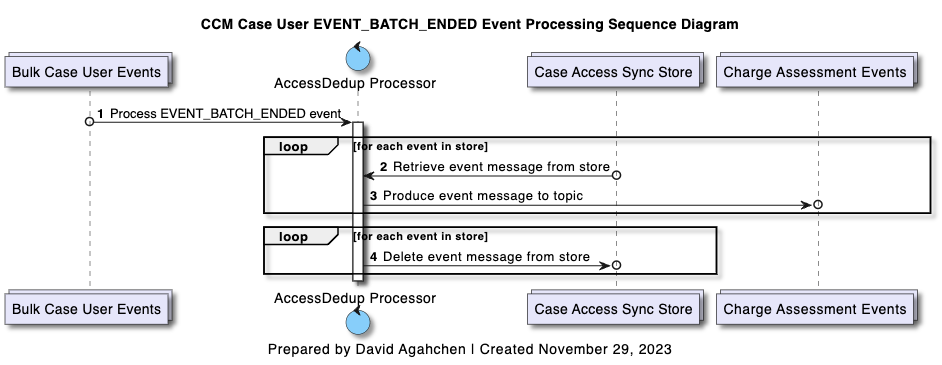
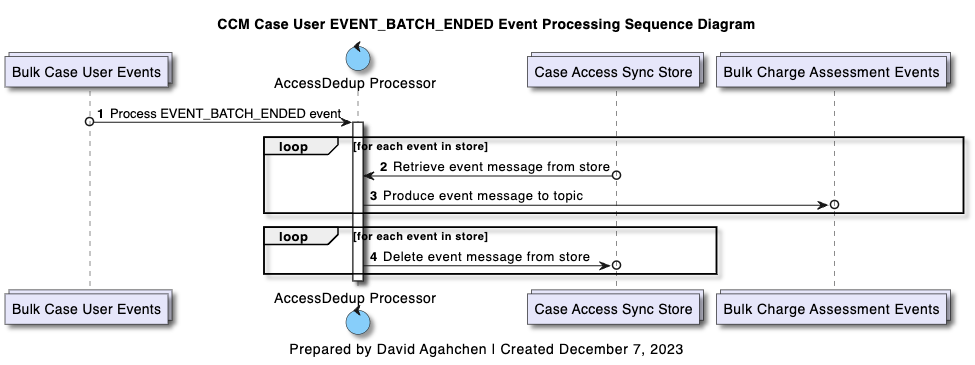
Change INFERRED_AUTH_LIST_CHANGED topic location

diff --git a/src/main/java/ccm/CcmNotificationService.java b/src/main/java/ccm/CcmNotificationService.java
@@ -62,6 +62,7 @@ public class CcmNotificationService extends RouteBuilder {
     attachExceptionHandlers();
 
     processChargeAssessmentEvents();
+    processBulkChargeAssessmentEvents();
     processCourtCaseEvents();
     processChargeAssessmentChanged();
     processManualChargeAssessmentChanged();
@@ -328,8 +329,53 @@ public class CcmNotificationService extends RouteBuilder {
         .setProperty("kpi_status", simple(EventKPI.STATUS.EVENT_PROCESSING_COMPLETED.name()))
         .to("direct:publishEventKPI")
         .endChoice()
-      .when(PredicateBuilder.or(header("event_status").isEqualTo(ChargeAssessmentEvent.STATUS.AUTH_LIST_CHANGED), 
-        header("event_status").isEqualTo(ChargeAssessmentEvent.STATUS.INFERRED_AUTH_LIST_CHANGED)))
+      .when(header("event_status").isEqualTo(ChargeAssessmentEvent.STATUS.AUTH_LIST_CHANGED))
+        .setProperty("kpi_component_route_name", simple("processCourtCaseAuthListChanged"))
+        .setProperty("kpi_status", simple(EventKPI.STATUS.EVENT_PROCESSING_STARTED.name()))
+        .to("direct:publishEventKPI")
+        .setBody(header("event"))
+        .to("direct:processCourtCaseAuthListChanged")
+        .setProperty("kpi_status", simple(EventKPI.STATUS.EVENT_PROCESSING_COMPLETED.name()))
+        .to("direct:publishEventKPI")
+        .endChoice()
+      .otherwise()
+        .to("direct:processUnknownStatus")
+        .setProperty("kpi_component_route_name", simple("processUnknownStatus"))
+        .setProperty("kpi_status", simple(EventKPI.STATUS.EVENT_PROCESSING_FAILED.name()))
+        .to("direct:publishEventKPI")
+        .endChoice()
+      .end();
+    ;
+  }
+
+  private void processBulkChargeAssessmentEvents() {
+    // use method name as route id
+    String routeId = new Object() {}.getClass().getEnclosingMethod().getName();
+
+    from("kafka:{{kafka.topic.bulk-chargeassessments.name}}?groupId=ccm-notification-service&maxPollRecords=5&maxPollIntervalMs=2400000")
+    .routeId(routeId)
+    .log(LoggingLevel.INFO,"Event from Kafka {{kafka.topic.bulk-chargeassessments.name}} topic (offset=${headers[kafka.OFFSET]}): ${body}\n" +
+      "    on the topic ${headers[kafka.TOPIC]}\n" +
+      "    on the partition ${headers[kafka.PARTITION]}\n" +
+      "    with the offset ${headers[kafka.OFFSET]}\n" +
+      "    with the key ${headers[kafka.KEY]}")
+    .setHeader("event_key")
+      .jsonpath("$.event_key")
+    .setHeader("event_status")
+      .jsonpath("$.event_status")
+    .setHeader("event_message_id")
+      .jsonpath("$.justin_event_message_id")
+    .setHeader("event_message_type")
+      .jsonpath("$.justin_message_event_type_cd")
+    .setHeader("event")
+      .simple("${body}")
+    .unmarshal().json(JsonLibrary.Jackson, ChargeAssessmentEvent.class)
+    .setProperty("kpi_event_object", body())
+    .setProperty("kpi_event_topic_name", simple("${headers[kafka.TOPIC]}"))
+    .setProperty("kpi_event_topic_offset", simple("${headers[kafka.OFFSET]}"))
+    .marshal().json(JsonLibrary.Jackson, ChargeAssessmentEvent.class)
+    .choice()
+      .when(header("event_status").isEqualTo(ChargeAssessmentEvent.STATUS.INFERRED_AUTH_LIST_CHANGED))
         .setProperty("kpi_component_route_name", simple("processCourtCaseAuthListChanged"))
         .setProperty("kpi_status", simple(EventKPI.STATUS.EVENT_PROCESSING_STARTED.name()))
         .to("direct:publishEventKPI")

diff --git a/ccm-accessdedup-processor/src/main/java/CaseUserEventHandler.java b/ccm-accessdedup-processor/src/main/java/CaseUserEventHandler.java
@@ -42,8 +42,7 @@ public class CaseUserEventHandler extends AbstractProcessor<String, String> {
     private KeyValueStore<String, String> accessdedupStore;
 
     private String appId;
-    private String chargeAssessmentsTopicName;
-    private String chargeAssessmentErrorsTopicName;
+    private String bulkChargeAssessmentsTopicName;
     private String bulkCaseUsersTopicName;
     private String caseUserErrorsTopicName;
     private String kpisTopicName;
@@ -58,7 +57,7 @@ public class CaseUserEventHandler extends AbstractProcessor<String, String> {
 
         // Dependency injection doesn't work in Kafka Streams.  We have to use the ConfigProvider.
         appId = ConfigProvider.getConfig().getValue("quarkus.kafka-streams.application-id", String.class);
-        chargeAssessmentsTopicName = ConfigProvider.getConfig().getValue("ccm.topic.chargeassessments.name", String.class);
+        bulkChargeAssessmentsTopicName = ConfigProvider.getConfig().getValue("ccm.topic.bulk-chargeassessments.name", String.class);
         bulkCaseUsersTopicName = ConfigProvider.getConfig().getValue("ccm.topic.bulk-caseusers.name", String.class);
         caseUserErrorsTopicName = ConfigProvider.getConfig().getValue("ccm.topic.caseuser-errors.name", String.class);
         kpisTopicName = ConfigProvider.getConfig().getValue("ccm.topic.kpis.name", String.class);
@@ -119,7 +118,7 @@ public class CaseUserEventHandler extends AbstractProcessor<String, String> {
                     LOG.info("Forwarding from store: charge assessment {}.", keyValue.key);
 
                     context.forward(keyValue.key, keyValue.value, 
-                        CaseUserEventHandler.util_getToplogySinkName(chargeAssessmentsTopicName));
+                        CaseUserEventHandler.util_getToplogySinkName(bulkChargeAssessmentsTopicName));
                 });
 
                 accessdedupStore.all().forEachRemaining(keyValue -> {

diff --git a/ccm-accessdedup-processor/src/main/java/AccessDedupTopology.java b/ccm-accessdedup-processor/src/main/java/AccessDedupTopology.java
@@ -29,8 +29,8 @@ public class AccessDedupTopology {
     String quarkusKafkaStreamsAppName;
 
     @Inject
-    @ConfigProperty(name = "ccm.topic.chargeassessments.name")
-    String chargeAssessmentsTopicName;
+    @ConfigProperty(name = "ccm.topic.bulk-chargeassessments.name")
+    String bulkChargeAssessmentsTopicName;
     
     @Inject
     @ConfigProperty(name = "ccm.topic.bulk-caseusers.name")
@@ -79,7 +79,7 @@ public class AccessDedupTopology {
         topology.addSink(CaseUserEventHandler.util_getToplogySinkName(caseUserErrorsTopicName), caseUserErrorsTopicName, 
             Serdes.String().serializer(), Serdes.String().serializer(), 
             CaseUserEventHandler.util_getTopologyProcessorName());
-        topology.addSink(CaseUserEventHandler.util_getToplogySinkName(chargeAssessmentsTopicName), chargeAssessmentsTopicName, 
+        topology.addSink(CaseUserEventHandler.util_getToplogySinkName(bulkChargeAssessmentsTopicName), bulkChargeAssessmentsTopicName, 
             Serdes.String().serializer(), Serdes.String().serializer(), 
             CaseUserEventHandler.util_getTopologyProcessorName());
         topology.addSink(CaseUserEventHandler.util_getToplogySinkName(kpisTopicName), kpisTopicName, 
@@ -90,7 +90,7 @@ public class AccessDedupTopology {
         //// Define the charge assessment event source
         topology.addSource(ChargeAssessmentEventHandler.util_getTopologySourceName(), 
             Serdes.String().deserializer(), Serdes.String().deserializer(), 
-            chargeAssessmentsTopicName);
+            bulkChargeAssessmentsTopicName);
         //// Add charge assessment event custom processor
         topology.addProcessor(ChargeAssessmentEventHandler.class.getSimpleName(), 
             ChargeAssessmentEventHandler::new, ChargeAssessmentEventHandler.util_getTopologySourceName());

diff --git a/ccm-accessdedup-processor/src/main/java/ChargeAssessmentEventHandler.java b/ccm-accessdedup-processor/src/main/java/ChargeAssessmentEventHandler.java
@@ -41,8 +41,7 @@ public class ChargeAssessmentEventHandler extends AbstractProcessor<String, Stri
     private ProcessorContext context;
 
     private String appId;
-    private String chargeAssessmentsTopicName;
-    private String chargeAssessmentErrorsTopicName;
+    private String bulkChargeAssessmentsTopicName;
     private String bulkCaseUsersTopicName;
     private String caseUserErrorsTopicName;
     private String kpisTopicName;
@@ -57,7 +56,7 @@ public class ChargeAssessmentEventHandler extends AbstractProcessor<String, Stri
 
         // Dependency injection doesn't work in Kafka Streams.  We have to use the ConfigProvider.
         appId = ConfigProvider.getConfig().getValue("quarkus.kafka-streams.application-id", String.class);
-        chargeAssessmentsTopicName = ConfigProvider.getConfig().getValue("ccm.topic.chargeassessments.name", String.class);
+        bulkChargeAssessmentsTopicName = ConfigProvider.getConfig().getValue("ccm.topic.bulk-chargeassessments.name", String.class);
         bulkCaseUsersTopicName = ConfigProvider.getConfig().getValue("ccm.topic.bulk-caseusers.name", String.class);
         caseUserErrorsTopicName = ConfigProvider.getConfig().getValue("ccm.topic.caseuser-errors.name", String.class);
         kpisTopicName = ConfigProvider.getConfig().getValue("ccm.topic.kpis.name", String.class);

diff --git a/src/main/java/ccm/models/common/versioning/Version.java b/src/main/java/ccm/models/common/versioning/Version.java
@@ -2,7 +2,7 @@ package ccm.models.common.versioning;
 
 public enum Version {
 
-    V1_0("1.3.0");
+    V1_0("1.3.1");
 
     private String value;
 

diff --git a/docs/app-README.md b/docs/app-README.md
@@ -38,7 +38,7 @@ JADE-CCM event processing sequence diagrams are created using the PlantUML seque
 | Charge Assessment | CREATED |[Diagram](../diagrams/img/ccm_charge_assessment_case_created_processing_sequence_diagram.png) ([source](../diagrams/ccm_charge_assessment_case_created_processing_sequence_diagram.plantuml))|
 | Charge Assessment | UPDATED |[Diagram](../diagrams/img/ccm_charge_assessment_case_updated_processing_sequence_diagram.png) ([source](../diagrams/ccm_charge_assessment_case_updated_processing_sequence_diagram.plantuml))|
 | Charge Assessment | AUTH_LIST_CHANGED |[Diagram](../diagrams/img/ccm_charge_assessment_case_auth_list_changed_processing_sequence_diagram.png) ([source](../diagrams/ccm_charge_assessment_case_auth_list_changed_processing_sequence_diagram.plantuml))|
-| Charge Assessment | INFERRED_AUTH_LIST_CHANGED |[Diagram](../diagrams/img/ccm_charge_assessment_case_auth_list_changed_processing_sequence_diagram.png) ([source](../diagrams/ccm_charge_assessment_case_auth_list_changed_processing_sequence_diagram.plantuml))|
+| Charge Assessment | INFERRED_AUTH_LIST_CHANGED |[Diagram](../diagrams/img/ccm_charge_assessment_case_inferred_auth_list_changed_processing_sequence_diagram.png) ([source](../diagrams/ccm_charge_assessment_case_inferred_auth_list_changed_processing_sequence_diagram.plantuml))|
 | Court Case | CHANGED |[Diagram](../diagrams/img/ccm_approved_court_case_changed_processing_sequence_diagram.png) ([source](../diagrams/ccm_approved_court_case_changed_processing_sequence_diagram.plantuml))|
 | Court Case | APPEARANCE_CHANGED |[Diagram](../diagrams/img/ccm_approved_cort_case_appearance_changed_processing_sqeuencing_diagram.png) ([source](../diagrams/ccm_approved_cort_case_appearance_changed_processing_sqeuencing_diagram.plantuml))|
 | Court Case | CROWN_ASSIGNMENT_CHANGED |[Diagram](../diagrams/img/ccm_approved_court_case_crown_assignment_changed_processing_sequence_diagram.png) ([source](../diagrams/ccm_approved_court_case_crown_assignment_changed_processing_sequence_diagram.plantuml))|
